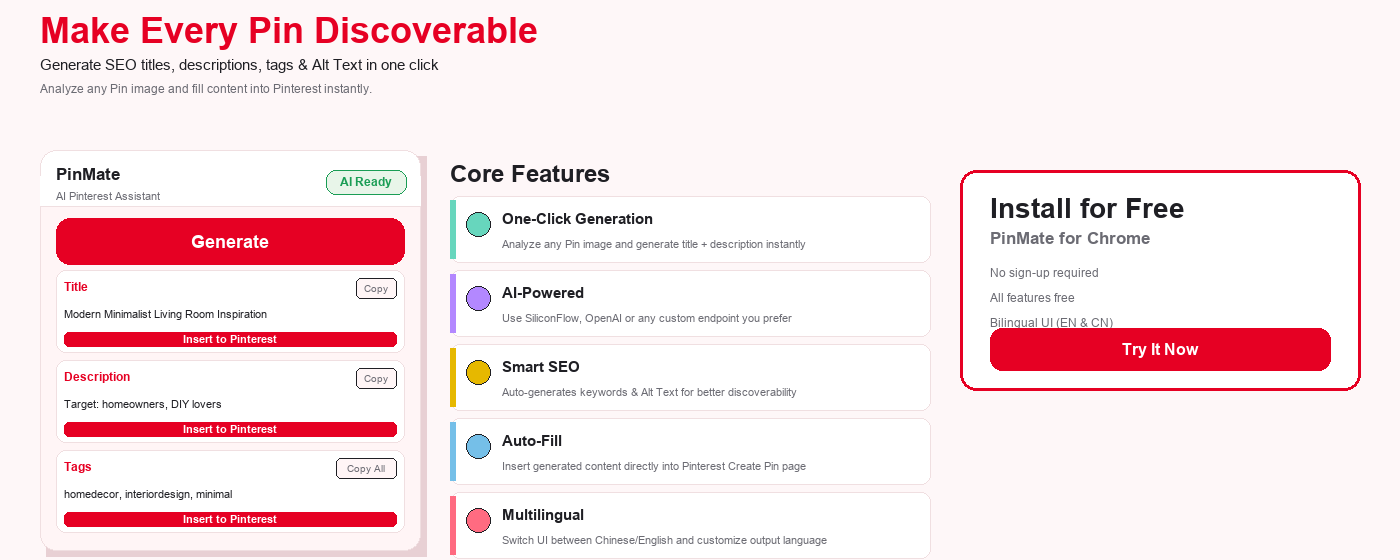
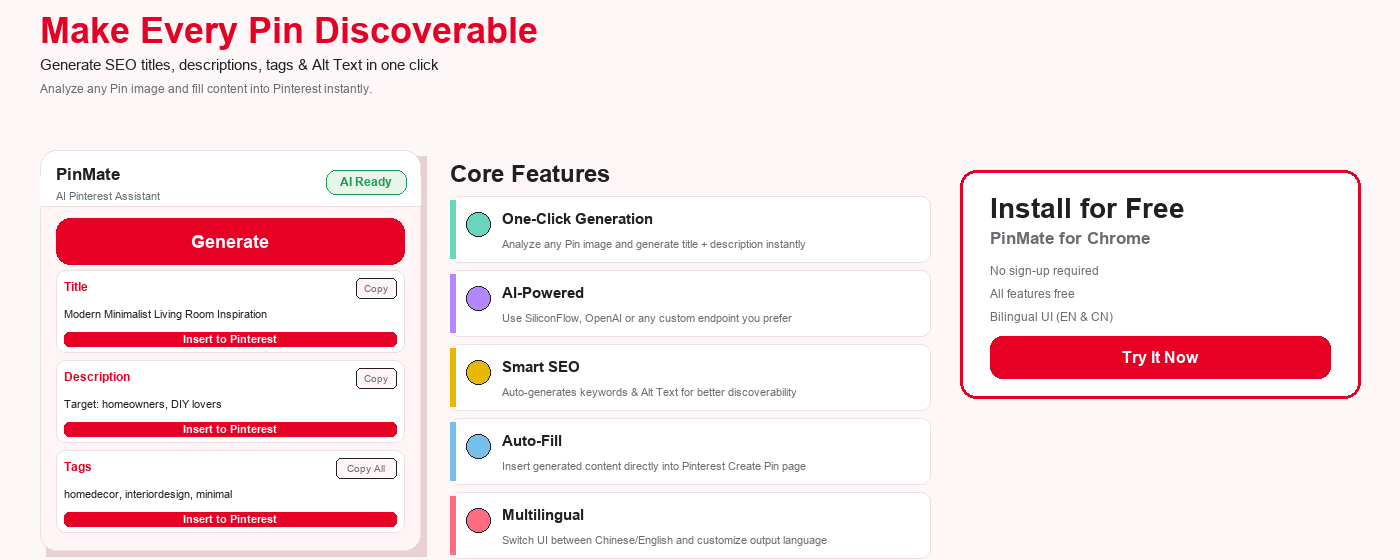
PinMate promo-large: 增加 CTA 框高度避免按钮遮挡 Bilingual UI 文案

Changed region(s): [[0.6757, 0.4554, 0.9829, 0.7286]]

diff --git a/assets/generate-store-promo.py b/assets/generate-store-promo.py
@@ -362,7 +362,7 @@ def large_promo():
 
     # CTA box
     cta_box_w = 400
-    cta_box_h = 220
+    cta_box_h = 228
     rounded_rect(d, (rx, ry, rx + cta_box_w, ry + cta_box_h), radius=16,
                  fill=C["surface"], outline=C["primary"], width=3)
 
@@ -376,10 +376,10 @@ def large_promo():
         "All features free",
         "Bilingual UI (EN & CN)",
     ]
-    sy = ry + 96
+    sy = ry + 94
     for sl in sub_lines:
         text(d, (rx + 30, sy), sl, fill=C["sub"], f=font_en(12))
-        sy += 25
+        sy += 23
 
     # Big CTA button — vertically & horizontally centered English text
     btn_h = 42
